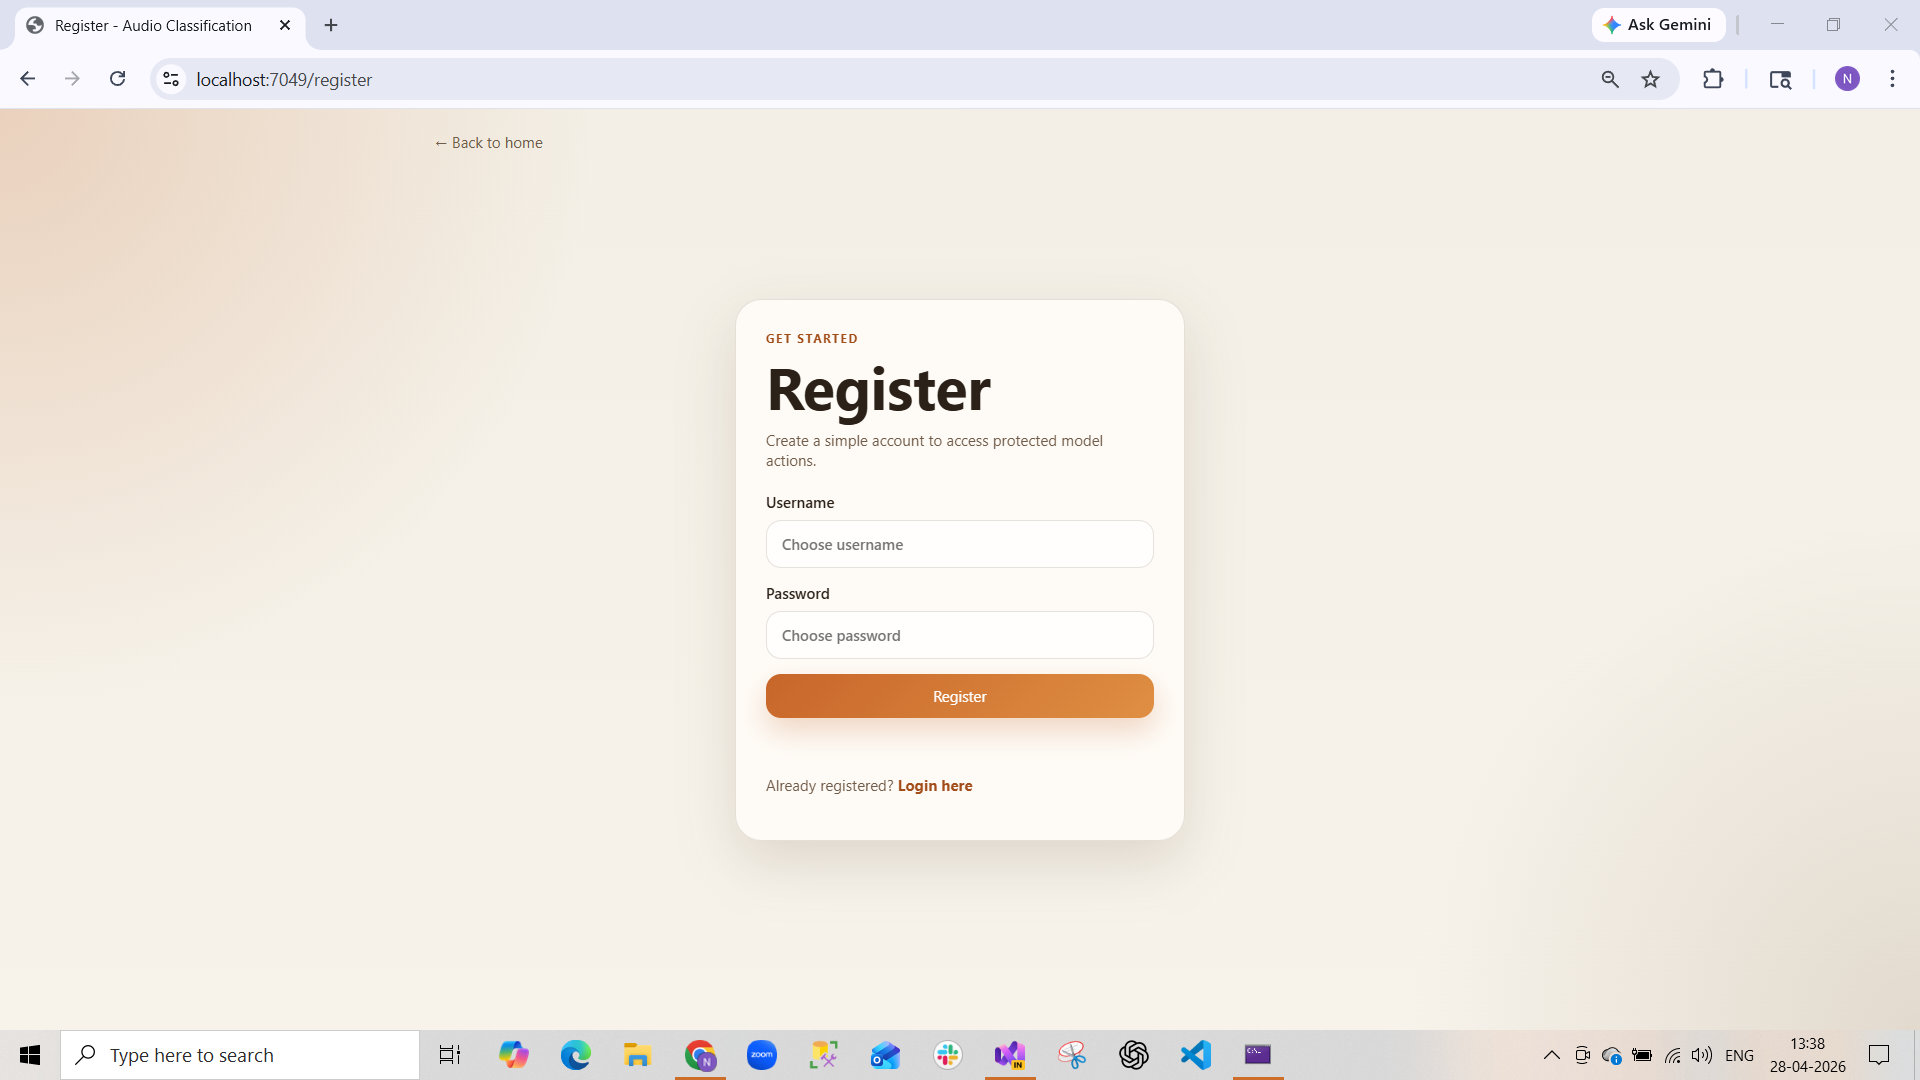
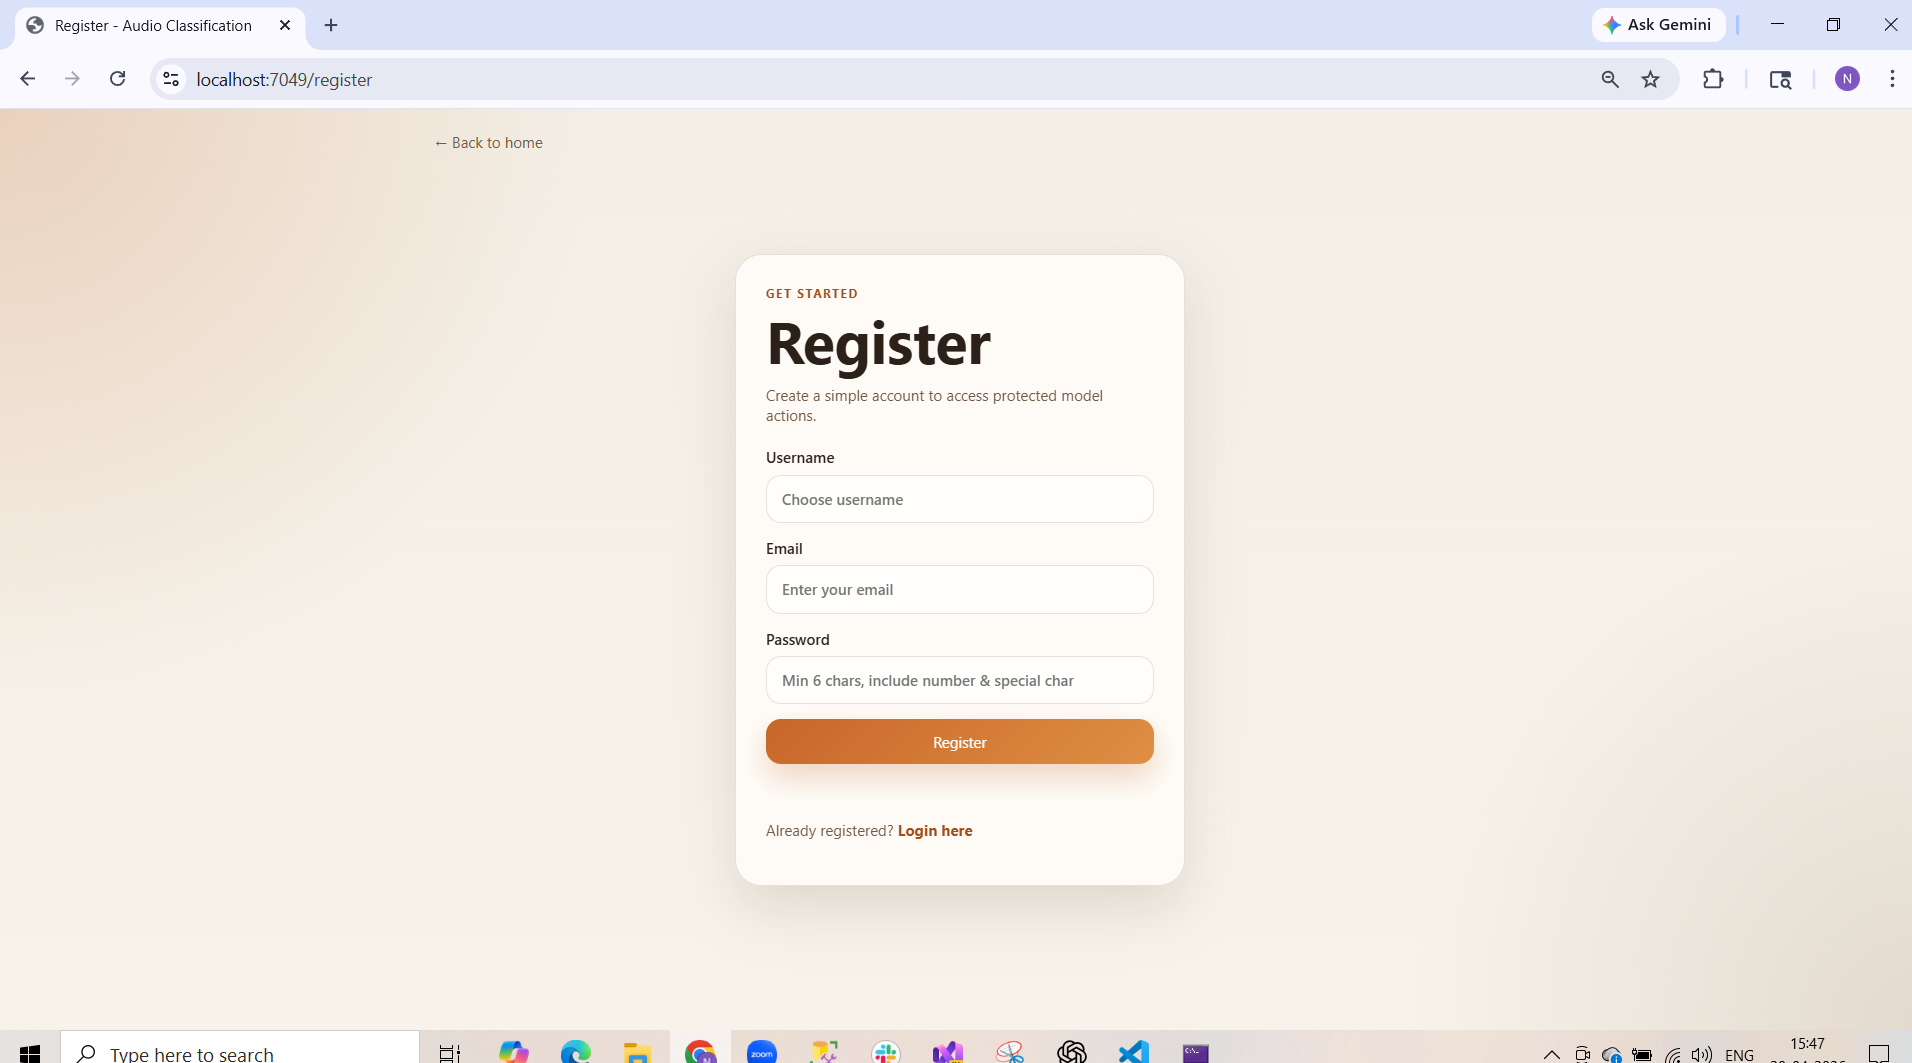
updated

diff --git a/wwwroot/styles.css b/wwwroot/styles.css
@@ -229,13 +229,17 @@ h1 {
 
 input[type="text"],
 input[type="password"],
+input[type="email"],
 input[type="file"] {
     width: 100%;
     border: 1px solid var(--border);
-    border-radius: 16px;
+    border-radius: 16px !important; /* 🔥 FORCE ROUND */
     padding: 14px 16px;
-    background: rgba(255, 255, 255, 0.75);
+    background: rgba(255, 255, 255, 0.75) !important;
     color: var(--text);
+    appearance: none; /* 🔥 REMOVE DEFAULT STYLE */
+    -webkit-appearance: none;
+    -moz-appearance: none;
 }
 
 .status-message {

diff --git a/wwwroot/app.js b/wwwroot/app.js
@@ -61,6 +61,7 @@ async function handleRegister() {
 
         const payload = {
             username: document.getElementById("register-username").value.trim(),
+            email: document.getElementById("register-email").value.trim(), // 🔥 ADD THIS
             password: document.getElementById("register-password").value
         };
 

diff --git a/Controllers/AuthController.cs b/Controllers/AuthController.cs
@@ -2,6 +2,7 @@
 using AudioClassification.Data;
 using AudioClassification.Models;
 using AudioClassification.Services;
+using BCrypt.Net;
 
 namespace AudioClassification.Controllers
 {
@@ -19,24 +20,29 @@ namespace AudioClassification.Controllers
         }
 
         // 🔹 Register
+
         [HttpPost("register")]
         public IActionResult Register(RegisterRequest request)
         {
-            if (string.IsNullOrWhiteSpace(request.Username) || string.IsNullOrWhiteSpace(request.Password))
-                return BadRequest("Username and password are required.");
+            if (!ModelState.IsValid)
+                return BadRequest(ModelState);
 
-            var username = request.Username.Trim();
+            if (_context.Users.Any(u => u.Username == request.Username))
+                return BadRequest("Username already exists");
 
-            var exists = _context.Users.Any(u => u.Username == username && !u.IsDeleted);
-            if (exists)
-                return Conflict("Username already exists.");
+            if (_context.Users.Any(u => u.Email == request.Email))
+                return BadRequest("Email already exists");
+
+            // 🔐 HASH PASSWORD
+            string hashedPassword = BCrypt.Net.BCrypt.HashPassword(request.Password);
 
             var user = new User
             {
-                Username = username,
-                Password = request.Password,
+                Username = request.Username,
+                Email = request.Email,
+                Password = hashedPassword,
 
-                CreatedBy = username,
+                CreatedBy = request.Username,
                 CreatedDate = DateTime.UtcNow,
                 IsDeleted = false
             };
@@ -44,28 +50,29 @@ namespace AudioClassification.Controllers
             _context.Users.Add(user);
             _context.SaveChanges();
 
-            return Ok("User registered");
+            return Ok("User registered successfully");
         }
 
         // 🔹 Login
         [HttpPost("login")]
         public IActionResult Login(LoginRequest request)
         {
-            if (string.IsNullOrWhiteSpace(request.Username) || string.IsNullOrWhiteSpace(request.Password))
-                return BadRequest("Username and password are required.");
+            if (!ModelState.IsValid)
+                return BadRequest(ModelState);
 
-            var username = request.Username.Trim();
+            var user = _context.Users.FirstOrDefault(u =>
+                u.Username == request.Username && !u.IsDeleted);
 
-            var existing = _context.Users
-                .FirstOrDefault(u =>
-                    u.Username == username &&
-                    u.Password == request.Password &&
-                    !u.IsDeleted);
+            if (user == null)
+                return Unauthorized("Invalid username or password");
 
-            if (existing == null)
-                return Unauthorized("Invalid credentials");
+            // 🔐 VERIFY HASH
+            bool isValid = BCrypt.Net.BCrypt.Verify(request.Password, user.Password);
 
-            var token = _jwt.GenerateToken(existing.Username);
+            if (!isValid)
+                return Unauthorized("Invalid username or password");
+
+            var token = _jwt.GenerateToken(user.Username);
 
             return Ok(new { token });
         }

diff --git a/Migrations/20260428093258_AddEmailToUser.Designer.cs b/Migrations/20260428093258_AddEmailToUser.Designer.cs
@@ -4,6 +4,7 @@ using AudioClassification.Data;
 using Microsoft.EntityFrameworkCore;
 using Microsoft.EntityFrameworkCore.Infrastructure;
 using Microsoft.EntityFrameworkCore.Metadata;
+using Microsoft.EntityFrameworkCore.Migrations;
 using Microsoft.EntityFrameworkCore.Storage.ValueConversion;
 
 #nullable disable
@@ -11,9 +12,11 @@ using Microsoft.EntityFrameworkCore.Storage.ValueConversion;
 namespace AudioClassification.Migrations
 {
     [DbContext(typeof(AppDbContext))]
-    partial class AppDbContextModelSnapshot : ModelSnapshot
+    [Migration("20260428093258_AddEmailToUser")]
+    partial class AddEmailToUser
     {
-        protected override void BuildModel(ModelBuilder modelBuilder)
+        /// <inheritdoc />
+        protected override void BuildTargetModel(ModelBuilder modelBuilder)
         {
 #pragma warning disable 612, 618
             modelBuilder

diff --git a/Migrations/20260428093258_AddEmailToUser.cs b/Migrations/20260428093258_AddEmailToUser.cs
@@ -1,0 +1,29 @@
+using Microsoft.EntityFrameworkCore.Migrations;
+
+#nullable disable
+
+namespace AudioClassification.Migrations
+{
+    /// <inheritdoc />
+    public partial class AddEmailToUser : Migration
+    {
+        /// <inheritdoc />
+        protected override void Up(MigrationBuilder migrationBuilder)
+        {
+            migrationBuilder.AddColumn<string>(
+                name: "Email",
+                table: "Users",
+                type: "nvarchar(max)",
+                nullable: false,
+                defaultValue: "");
+        }
+
+        /// <inheritdoc />
+        protected override void Down(MigrationBuilder migrationBuilder)
+        {
+            migrationBuilder.DropColumn(
+                name: "Email",
+                table: "Users");
+        }
+    }
+}

diff --git a/Models/RegisterRequest.cs b/Models/RegisterRequest.cs
@@ -1,5 +1,19 @@
-public class RegisterRequest
+using System.ComponentModel.DataAnnotations;
+
+public class RegisterRequest
 {
+    [Required]
+    [MinLength(3)]
+    [MaxLength(20)]
     public string Username { get; set; } = "";
+
+    [Required]
+    [EmailAddress]
+    public string Email { get; set; } = "";
+
+    [Required]
+    [MinLength(6)]
+    [RegularExpression(@"^(?=.*[A-Za-z])(?=.*\d)(?=.*[@$!%*?&]).+$",
+        ErrorMessage = "Password must contain letter, number, and special character")]
     public string Password { get; set; } = "";
 }

diff --git a/Models/User.cs b/Models/User.cs
@@ -13,6 +13,10 @@ namespace AudioClassification.Models
         public string Password { get; set; } = "";
 
         [Required]
+        [EmailAddress]
+        public string Email { get; set; } = "";
+
+        [Required]
         public string CreatedBy { get; set; } = "Nishi";
 
         [Required]

diff --git a/Models/LoginRequest.cs b/Models/LoginRequest.cs
@@ -1,5 +1,10 @@
-public class LoginRequest
+using System.ComponentModel.DataAnnotations;
+
+public class LoginRequest
 {
+    [Required]
     public string Username { get; set; } = "";
+
+    [Required]
     public string Password { get; set; } = "";
 }
